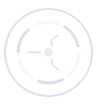
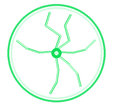
PCARS: green plasma ball launch animation — 6 lightning bolts, static ball style

Changed region(s): [[0.0309, 0.0286, 0.9588, 0.9714]]

diff --git a/themes/pcars/generate_pcars_assets.py b/themes/pcars/generate_pcars_assets.py
@@ -1824,52 +1824,60 @@ def gen_misc():
     d.polygon([(2*s, 9*s), (16*s, 2*s), (16*s, 16*s)], fill=_c(SOFT_W))
     save(ss_finish(img, 20, 18), "payloads_dashboard/arrow.png")
 
-    # Launch animation frames — power cell charging cycle
+    # Launch animation frames — plasma ball (same size both frames)
     import math as _math
-    for fi, (name, w, h) in enumerate([("animation/anim_frame_1", 113, 106),
-                                        ("animation/anim_frame_2", 97, 105)]):
+    import random as _rand
+    PLASMA_GREEN = (0, 220, 80)
+    PLASMA_GREEN_DIM = (0, 160, 50)
+    for fi, name in enumerate(["animation/anim_frame_1", "animation/anim_frame_2"]):
+        w, h = 113, 106  # fixed size — no shrinking between frames
         img, d = ss_start(w, h)
         cx, cy = w * s // 2, h * s // 2
         r_outer = min(w, h) * s // 2 - 4 * s
 
-        # Outer ring
+        # Outer ring — green
         d.ellipse([cx - r_outer, cy - r_outer, cx + r_outer, cy + r_outer],
-                  outline=_c(WHITE, 200), width=2 * s)
+                  outline=_c(PLASMA_GREEN, 200), width=2 * s)
+        # Inner glow ring
+        r_glow = r_outer - 3 * s
+        d.ellipse([cx - r_glow, cy - r_glow, cx + r_glow, cy + r_glow],
+                  outline=_c(PLASMA_GREEN, 40), width=2 * s)
 
-        # Inner curved segments — 6 arcs forming the power cell pattern
-        r_inner = int(r_outer * 0.72)
-        seg_angles = [(0, 50), (60, 110), (120, 170), (180, 230), (240, 290), (300, 350)]
+        # 6 lightning bolts — plasma ball style, shift angles per frame
+        rng = _rand.Random(77 + fi * 31)
+        bolt_base_angles = [0, 60, 120, 180, 240, 300]
+        for bi, base_deg in enumerate(bolt_base_angles):
+            # Each bolt gets a random offset per frame so they "move"
+            angle_deg = base_deg + rng.uniform(-25, 25)
+            ba = _math.radians(angle_deg)
 
-        # Alternate which segments are bright vs dim per frame
-        for si, (a_start, a_end) in enumerate(seg_angles):
-            lit = (si + fi) % 2 == 0
-            alpha = 220 if lit else 60
-            d.arc([cx - r_inner, cy - r_inner, cx + r_inner, cy + r_inner],
-                  start=a_start, end=a_end,
-                  fill=_c(WHITE, alpha), width=3 * s)
+            # Bolt goes from near center to near edge
+            r_start = int(r_outer * 0.08)
+            r_end = int(r_outer * 0.85)
 
-        # Lightning bolts from center — shift position per frame
-        bolt_angles = [_math.radians(30 + fi * 30), _math.radians(150 + fi * 30), _math.radians(270 + fi * 30)]
-        for ba in bolt_angles:
-            r1 = int(r_inner * 0.25)
-            r2 = int(r_inner * 0.65)
-            x1 = int(cx + r1 * _math.cos(ba))
-            y1 = int(cy + r1 * _math.sin(ba))
-            # Zigzag bolt
-            mid_r = (r1 + r2) // 2
-            jog = 4 * s * (1 if fi == 0 else -1)
-            xm = int(cx + mid_r * _math.cos(ba)) + jog
-            ym = int(cy + mid_r * _math.sin(ba))
-            x2 = int(cx + r2 * _math.cos(ba))
-            y2 = int(cy + r2 * _math.sin(ba))
-            d.line([(x1, y1), (xm, ym), (x2, y2)],
-                   fill=_c(WHITE, 180), width=2 * s)
+            # 3-segment zigzag bolt
+            pts = []
+            for seg in range(4):
+                t = seg / 3.0
+                r_at = r_start + (r_end - r_start) * t
+                # Jitter perpendicular to the bolt direction
+                jitter = 0 if seg == 0 or seg == 3 else rng.uniform(-8, 8) * s
+                bx = int(cx + r_at * _math.cos(ba) + jitter * _math.cos(ba + 1.57))
+                by = int(cy + r_at * _math.sin(ba) + jitter * _math.sin(ba + 1.57))
+                pts.append((bx, by))
 
-        # Center dot — power core
-        cr = 4 * s
-        core_alpha = 255 if fi == 0 else 140
+            # Draw bolt with glow
+            d.line(pts, fill=_c(PLASMA_GREEN, 220), width=2 * s, joint="curve")
+            # Bright core line
+            d.line(pts, fill=_c((150, 255, 180), 140), width=1 * s, joint="curve")
+
+        # Center dot — bright green core
+        cr = 5 * s
         d.ellipse([cx - cr, cy - cr, cx + cr, cy + cr],
-                  fill=_c(WHITE, core_alpha))
+                  fill=_c(PLASMA_GREEN, 240))
+        cr2 = 2 * s
+        d.ellipse([cx - cr2, cy - cr2, cx + cr2, cy + cr2],
+                  fill=_c((200, 255, 220), 255))
 
         result = ss_finish(img, w, h)
         save(result, f"launch_payload_dialog/{name}.png")
